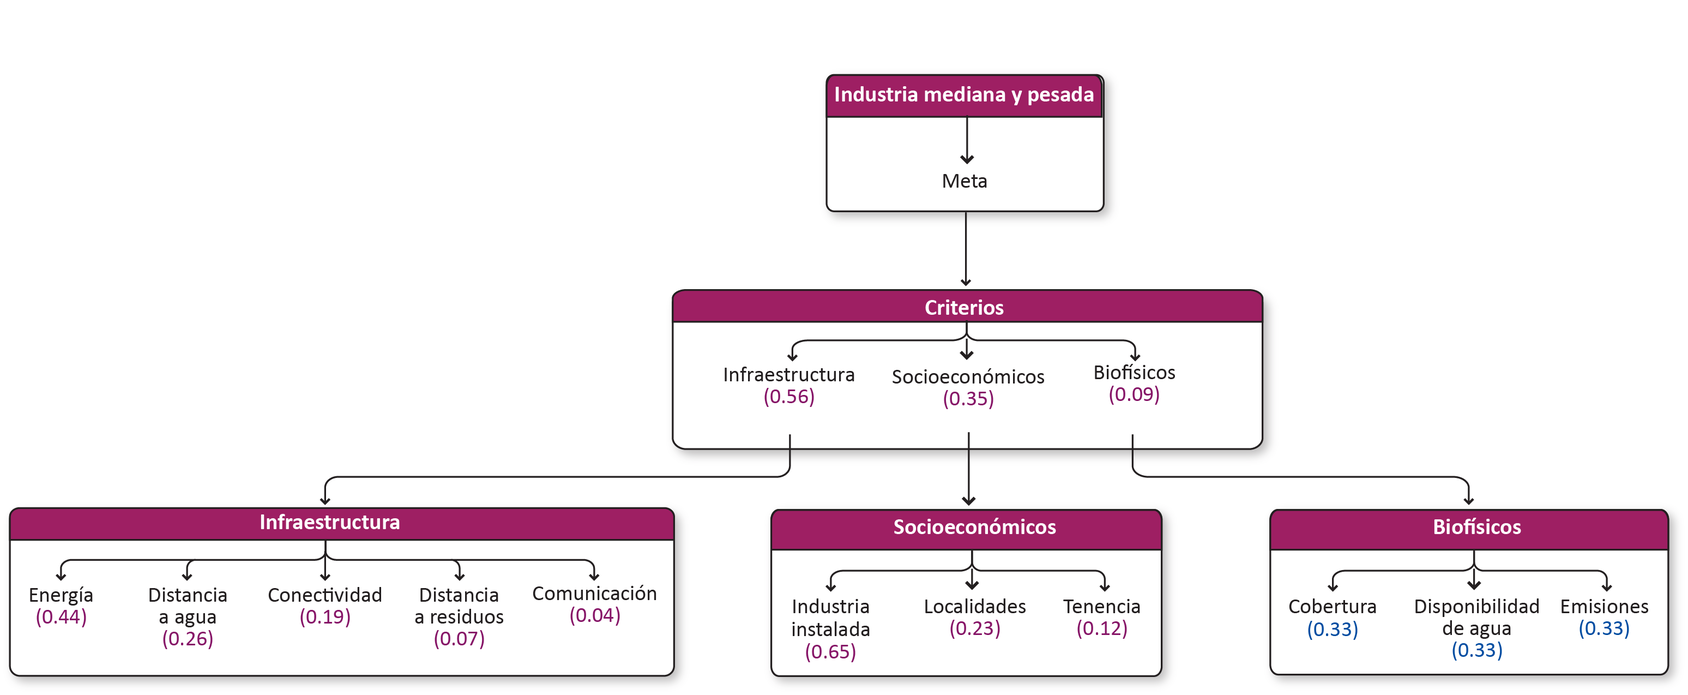
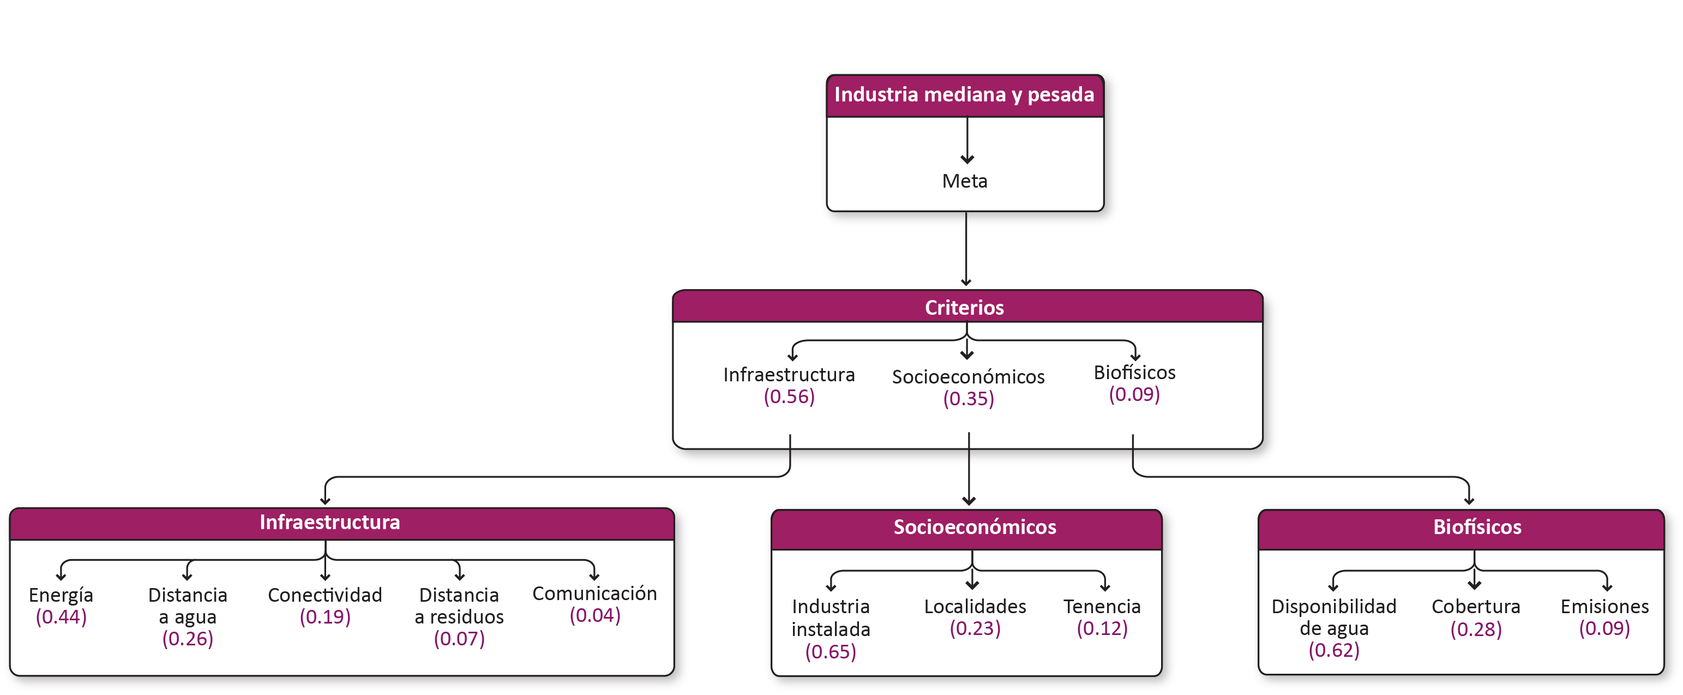
actualizaci├│n documentaci├│n1

diff --git a/searchindex.js b/searchindex.js
@@ -1,1 +1,1 @@
-Search.setIndex({docnames:["energia_pr","forestal_pr","ga_silvopastoril","ga_silvopastoril_pr","index","industrial_pr","urbano_pr"],envversion:{"sphinx.domains.c":1,"sphinx.domains.changeset":1,"sphinx.domains.cpp":1,"sphinx.domains.javascript":1,"sphinx.domains.math":2,"sphinx.domains.python":1,"sphinx.domains.rst":1,"sphinx.domains.std":1,"sphinx.ext.intersphinx":1,"sphinx.ext.todo":1,"sphinx.ext.viewcode":1,sphinx:55},filenames:["energia_pr.md","forestal_pr.md","ga_silvopastoril.rst","ga_silvopastoril_pr.md","index.rst","industrial_pr.md","urbano_pr.md"],objects:{},objnames:{},objtypes:{},terms:{"a\u00f1o":[1,2,3,5,6],"a\u00f1os":6,"cu\u00e1les":0,"desempe\u00f1":[2,3],"dise\u00f1":0,"final":5,"km\u00b2":[2,3],"le\u00f1":[0,1],"le\u00f1os":1,"public":0,"tama\u00f1":[1,6],Estado:0,Estos:4,Los:4,Muy:[2,3],Sin:[1,2,3,5],abastec:[4,5],acces:[1,2,3,5],accesibil:4,activ:[2,3,4,5],actuacion:0,actual:0,actualiz:4,acuicol:[2,3],acuifer:[2,3],adapt:[2,3],adimensional:[1,2,3,6],administr:6,afect:[2,3],agricultur:[2,3],agroindustri:5,agu:[4,6],ahp:[0,1,2,3,5,6],air:5,aliment:[2,3],almacen:[0,4,5],alta:[2,3],altern:1,ambient:[1,2,3],ambiental:[0,5],ambrosial:1,anex:5,animal:[2,3],anual:[2,3],aparent:[2,3],apoy:5,aprovech:[0,4,5,6],aptas:[2,3],arbor:[2,3],arbore:[2,3],arbust:[2,3],are:[1,4],arenosol:[2,3],asegur:0,asent:[5,6],asi:[1,4],atlas:5,atribut:4,aument:[2,3],aunqu:[2,3],autoriz:[1,5],avanc:4,baj:[2,3],bas:5,basurer:5,becerr:[2,3],biodivers:[2,3],biofis:4,biolog:0,bodeg:5,bosqu:[2,3],bovin:[2,3],cad:4,caducifoli:[2,3],calid:5,cambisol:[2,3],camin:[1,2,3,5],camp:[1,2,3,6],campech:[2,3],cancun:[2,3],cantid:[2,3],cap:[1,4,5,6],capac:[0,1,5],caracterist:[2,3],carbon:[0,1],carg:[2,3,5],carm:[2,3],carn:[2,3],carreter:[1,5],carretera_l:6,cart:[1,2,3],caset:5,categor:4,categori:[2,3],cenac:5,cens:[1,6],centr:[4,5,6],central:0,certidumbr:0,chernozem:[2,3],civil:0,clim:4,clima_tip:1,cobertur:[1,4,5,6],com:[0,1,3,4,5],combust:1,combustole:0,comercializ:5,comprim:0,comun:[0,4],conabi:[2,3],conafor:1,conagu:1,condicion:6,conect:4,conexion:5,confiabl:0,conform:4,conjunt:[1,2,3,5,6],consider:5,consolid:0,constru:[2,3],consum:[0,2,3,5],contamin:5,conten:6,continu:[1,2,3],contr:1,conversion:0,corredor:5,coster:[2,3],cre:0,crecimient:4,criteri:[0,4],cuatr:4,cubiert:1,cuent:5,cuerp:[2,3],cultiv:[2,3],dar:6,dat:[1,2,3,5,6],defin:0,definicion:[0,1,2,3,5,6],demograf:4,densid:4,denu:6,derechohabient:6,des_samof:1,desarroll:[0,6],descentraliz:6,descripci:[1,2,3],desech:0,desprov:[2,3],destin:1,determin:[0,2,3],diesel:0,direct:5,directori:6,disminu:5,dispersion:[5,6],dispon:4,disponibil:[4,5],disposicion:5,distaci:5,distanci:[1,2,3,4,6],distribu:[2,3,5],division:[2,3],dnu:5,drenaj:6,dun:[2,3],econom:[0,2,3,6],ecosistem:1,edafolog:[1,2,3],ejidal:[1,5],elabor:1,electr:[0,1,5,6],element:[1,5,6],emision:5,emple:4,empres:0,encuest:[2,3],energ:[1,4,6],energet:0,entid:[1,2,3,5,6],entub:6,equip:4,escal:[0,1,2,3,5,6],escarabaj:1,escuel:6,esfuerz:4,espaci:1,especi:[1,2,3],espin:[2,3],estadist:6,estatal:[1,2,3],exclusion:4,exot:1,expansion:6,experient:4,expresion:[2,3],extra:[2,3],extraccion:5,extrem:[2,3],factibil:5,factibl:4,factor:4,feder:[1,2,3,5,6],ferroviari:5,financ:1,fisic:[2,3],foment:6,forane:[2,3],forestal:4,form:0,forrajer:[2,3],freatic:[2,3,5],fuent:[1,2,3,4,5],fuer:6,funcion:[2,3],funcional:4,gan:[2,3],garc:[2,3],gasoduct:0,gener:[0,5,6],gleysol:[2,3],global:4,gramin:[2,3],granj:0,grup:4,gubernamental:6,habit:[1,6],hac:5,halofil:[2,3],hectare:6,herbace:[2,3],hidrofil:[2,3],histosol:[2,3],hong:1,human:5,identific:4,ifetel:5,impact:5,impid:1,inact:1,incendi:1,incident:1,inclu:[0,1,5],incluyent:0,incorpor:1,increment:5,indic:[1,6],indigen:4,induc:[2,3],industri:[0,4],industrial:[1,4],inegi:[1,2,3,5,6],inform:[1,2,3,4,5,6],infraestructur:4,inmigr:4,instal:[0,4],insum:[1,2,3,5,6],integr:[2,3],intercensal:[2,3],intraestatal:[2,3],invasor:1,invers:6,irradi:0,iter:[1,6],jurid:0,kilometr:[1,5],larg:4,leptosol:[2,3],liger:4,limpi:0,lin:1,liquen:1,lluvi:[2,3],local:[1,2,3,4,6],localidad250_:[1,6],localidad_250:5,logist:5,luvisol:[2,3],mader:4,man:[4,5],manej:5,maner:1,mangl:[2,3],mant:5,manten:[2,3],manufactur:5,map:[1,4],mas:4,materi:1,material:0,maxim:[2,3],mayor:[0,5],median:[2,3,4],medicion:5,mejor:[0,1],mer:[2,3,6],merc:4,met:4,metr:[2,3],mia:5,milimetr:[2,3],model:[0,1,4,5,6],moder:[2,3],movimient:5,muestr:4,municipal:[2,3,6],musg:1,n_freat_m:[2,3],nac:6,nacional:[1,2,3,5,6],nitosol:[2,3],nitrogen:[2,3],nivel:[2,3],nod:5,nuev:1,nul:[2,3],numer:[1,6],nutricion:[2,3],obra:[4,5],obten:5,obtien:4,ocup:[2,3,6],orden:0,p3ym_hli:6,pais:6,palm:[2,3],par:[0,1,2,3,5,6],parametr:[2,3],parcel:1,part:1,particip:4,past:[2,3],pastizal:[2,3],pastore:[2,3],paztizal:3,pder_ss:6,pedreg:[2,3],peligr:5,permanent:[2,3],pes:4,peten:[2,3],phaeozem:[2,3],piezometr:[2,3],plag:1,plant:[0,5],play:[2,3],pnaco:6,poblacion:[1,2,3,4],poblacional:[1,6],pobtot:[1,6],pocup:6,poety:[2,3,5],poligon:1,polit:[2,3],porcentaj:[2,3,6],porcicol:0,pose:0,posibil:[2,3],potabl:[5,6],potencial:1,poz:5,prec_m:[2,3],predomin:5,preferent:[1,4],prim:1,primari:[1,2,3],principal:[1,5,6],prioritari:1,prioriz:4,priv:[0,5],produc:0,produccion:[1,2,3,5],product:[0,1,2,3,4,5],productor:[0,1],profund:[2,3],promedi:[2,3],propied:5,proteccion:1,proyect:[0,5],pued:6,puert:5,punt:[1,2,3],quimic:[2,3],ran:1,realiz:4,recurs:[0,5],red:[1,2,3,5,6],regosol:[2,3],rellen:5,repart:0,represent:[1,4],residu:4,resin:1,result:[1,4,6],rieg:[2,3],riesg:4,rnc:1,roll:1,rural:1,saban:[2,3],salud:6,sanitari:5,sector:[0,2,3,4,6],secundari:[1,2,3],selv:[2,3],semipermanent:[2,3],sensibil:4,seri:[1,2,3,5,6],servici:[5,6],sesion:4,silvopastoril:4,sinoxylon:1,sistem:[2,3],siti:5,sivicoff:1,snigf:1,social:0,socioeconom:4,solonchak:[2,3],soport:[2,3],sosten:0,subcaducifoli:[2,3],subperennifoli:[2,3],subterrane:5,suel:[4,5],suficient:0,superfici:1,suscept:1,sustent:[2,3],tal:1,taller:[4,5],tas:4,tecnic:1,tecnolog:5,telecomun:5,temp_m:[2,3],temperatur:4,temporal:[2,3],tenenci:4,termin:5,terminal:0,terren:[1,5],terrestr:0,territori:[0,1],tierr:[1,5],tip:4,tipo_suel:[1,2,3],tizimin:[2,3],tod:6,topograf:[1,2,3,5,6],total:[2,3,6],transform:1,transmision:1,transport:0,traslad:6,tratamient:5,traves:6,tul:[2,3],tzucacab:[2,3],ubic:5,unidad:[1,2,3,5,6],unidentatum:1,urban:[2,3,4,5],usad:3,uso:[0,1,2,3],utiliz:0,valladol:[2,3],valor:[0,2,3],vectorial:[1,2,3,5,6],veget:[2,3,4],vegetal:[0,1,2,3],vehicul:0,vent:[1,2,3],verbal:[2,3],vered:1,vertient:6,vertisol:[2,3],vial:[1,6],vincul:6,viviend:[1,6],vivtot:6,vph_c_serv:6,vulner:5,yucatan:[0,1,5,6],zon:[0,1,2,3,5,6]},titles:["Energ\u00eda","Forestal","Silvopastoril","Silvopastoril","Sistema de conocimiento para la gesti\u00f3n del Ordenamiento Ecol\u00f3gico del Territorio (OET) del estado de Yucat\u00e1n","Industrial","Urbano"],titleterms:{abastec:1,accesibil:[2,3],activ:1,agu:[2,3,5],almacen:1,analisis:[2,4],aprovech:1,aptitud:[2,3,4],are:[2,3],atribut:[3,6],biofis:[1,2,3,5],biomas:0,cap:[2,3],categor:[2,3],centr:1,clim:1,cobertur:[2,3],comun:[1,5],comunitari:0,conect:[5,6],conoc:4,crecimient:6,criteri:[1,2,3,5,6],demograf:6,densid:6,disponibil:[2,3],distanci:5,ecolog:4,emple:6,energ:[0,5],eolic:0,equip:6,exclusion:[2,3],factor:1,forestal:1,fuent:[0,6],funcional:6,gas:0,gestion:4,global:[2,3],hidrocarbur:0,indigen:6,industri:5,industrial:[0,5],infraestructur:[1,5,6],inmigr:6,instal:5,liger:5,liqu:0,local:5,mader:1,man:[2,3],map:[2,3],median:5,merc:[1,2,3],met:[0,1,5,6],model:[2,3],natural:0,objet:4,obra:[2,3],oet:4,orden:4,par:4,pes:[2,3,5],poblacion:6,precipit:[2,3],residu:5,riesg:1,sectorial:4,sensibil:[2,3],silvopastoril:[2,3],sistem:4,socioeconom:[1,2,3,5],sol:0,subsector:0,suel:[1,2,3],tas:6,temperatur:[2,3],tenenci:[1,5],territori:4,tip:[1,2,3,5],urban:6,veget:1,yucatan:4}})
+Search.setIndex({docnames:["energia_pr","forestal_pr","ga_silvopastoril","ga_silvopastoril_pr","index","industrial_pr","urbano_pr"],envversion:{"sphinx.domains.c":1,"sphinx.domains.changeset":1,"sphinx.domains.cpp":1,"sphinx.domains.javascript":1,"sphinx.domains.math":2,"sphinx.domains.python":1,"sphinx.domains.rst":1,"sphinx.domains.std":1,"sphinx.ext.intersphinx":1,"sphinx.ext.todo":1,"sphinx.ext.viewcode":1,sphinx:55},filenames:["energia_pr.md","forestal_pr.md","ga_silvopastoril.rst","ga_silvopastoril_pr.md","index.rst","industrial_pr.md","urbano_pr.md"],objects:{},objnames:{},objtypes:{},terms:{"a\u00f1o":[1,2,3,5,6],"a\u00f1os":6,"cu\u00e1les":0,"desempe\u00f1":[2,3],"dise\u00f1":0,"final":5,"km\u00b2":[2,3],"le\u00f1":[0,1],"le\u00f1os":1,"public":0,"tama\u00f1":[1,6],Estado:0,Estos:4,Los:4,Muy:[2,3],Sin:[1,2,3,5],abastec:[4,5],acces:[1,2,3,5],accesibil:4,activ:[2,3,4,5],actuacion:0,actual:0,actualiz:4,acuicol:[2,3],acuifer:[2,3],adapt:[2,3],adimensional:[1,2,3,5,6],administr:6,afect:[2,3],agricultur:[2,3],agroindustri:5,agu:[4,6],ahp:[0,1,2,3,5,6],air:5,aliment:[2,3],almacen:[0,4,5],alta:[2,3],altern:1,ambient:[1,2,3],ambiental:[0,5],ambrosial:1,anex:5,animal:[2,3],anual:[2,3],aparent:[2,3],apoy:5,aprovech:[0,4,6],aptas:[2,3],arbor:[2,3],arbore:[2,3],arbust:[2,3],are:[1,4],arenosol:[2,3],asegur:0,asent:[5,6],asi:[1,4],atlas:[],atribut:4,aument:[2,3],aunqu:[2,3],autoriz:[1,5],avanc:4,baj:[2,3],bas:5,basurer:5,becerr:[2,3],biodivers:[2,3],biofis:4,biolog:0,biomas:4,bodeg:5,bosqu:[2,3],bovin:[2,3],cad:4,caducifoli:[2,3],calid:5,cambisol:[2,3],camin:[1,2,3,5],camp:[1,2,3,5,6],campech:[2,3],cancun:[2,3],cantid:[2,3],cap:[1,4,5,6],capac:[0,1,5],caracterist:[2,3],carbon:[0,1],carg:[2,3,5],carm:[2,3],carn:[2,3],carreter:[1,5],carretera_l:6,cart:[1,2,3],caset:5,categor:4,categori:[2,3],cenac:5,cens:[1,5,6],centr:[4,5,6],central:0,certidumbr:0,chernozem:[2,3],civil:0,clim:4,clima_tip:1,cobertur:[1,4,6],com:[0,1,3,4,5],combust:1,combustole:0,comercializ:5,comprim:0,comun:[0,4],comunitari:4,conabi:[2,3],conafor:1,conagu:[1,5],condicion:6,conect:4,conexion:5,confiabl:0,conform:4,conjunt:[1,2,3,5,6],consider:5,consolid:0,constru:[2,3],consum:[0,2,3,5],contamin:5,conten:6,continu:[1,2,3],contr:1,conversion:0,corredor:5,coster:[2,3],cre:0,crecimient:4,criteri:[0,4],cuatr:4,cubiert:1,cuent:[],cuerp:[2,3],cultiv:[2,3],dar:6,dat:[1,2,3,5,6],defin:0,definicion:[0,1,2,3,5,6],demograf:4,densid:4,denu:[5,6],derechohabient:6,des_samof:1,desarroll:[0,6],descentraliz:6,descripci:[1,2,3],desech:0,desprov:[2,3],destin:1,determin:[0,2,3],diesel:0,direct:[],directori:[5,6],disminu:5,dispersion:[4,6],dispon:4,disponibil:4,disposicion:5,distaci:5,distanci:[1,2,3,4,6],distribu:[2,3,5],division:[2,3],dnu:5,drenaj:6,dun:[2,3],econom:[0,2,3,5,6],ecosistem:1,edafolog:[1,2,3],ejidal:[1,5],elabor:1,electr:[0,1,5,6],element:[1,5,6],emision:4,emple:4,empres:0,encuest:[2,3],energ:[1,4,6],energet:0,entid:[1,2,3,5,6],entub:6,eolic:4,equip:4,escal:[0,1,2,3,5,6],escarabaj:1,escuel:6,esfuerz:4,espaci:1,especi:[1,2,3],espin:[2,3],estadist:[5,6],estatal:[1,2,3],exclusion:4,exot:1,expansion:6,experient:4,expresion:[2,3],extra:[2,3],extraccion:[],extrem:[2,3],factibil:[],factibl:4,factor:4,feder:[1,2,3,5,6],ferroviari:5,financ:1,fisic:[2,3],foment:6,forane:[2,3],forestal:4,form:0,forrajer:[2,3],freatic:[2,3,5],fuent:[1,2,3,4,5],fuer:6,funcion:[2,3],funcional:4,gan:[2,3],garc:[2,3],gas:4,gasoduct:0,gener:[0,5,6],gleysol:[2,3],global:4,gramin:[2,3],granj:0,grup:4,gubernamental:6,habit:[1,5,6],hac:5,halofil:[2,3],hectare:6,herbace:[2,3],hidrocarbur:4,hidrofil:[2,3],histosol:[2,3],hong:1,human:5,identific:4,ifetel:5,impact:5,impid:1,inact:1,incendi:1,incident:1,inclu:[0,1,5],incluyent:0,incorpor:1,increment:5,indic:[1,6],indigen:4,induc:[2,3],industri:[0,4],industrial:[1,4],inegi:[1,2,3,5,6],inform:[1,2,3,4,5,6],infraestructur:4,inmigr:4,instal:[0,4],insum:[1,2,3,5,6],integr:[2,3],intercensal:[2,3],intraestatal:[2,3],invasor:1,inventari:5,invers:6,irradi:0,iter:[1,5,6],jurid:0,kilometr:[1,5],larg:4,leptosol:[2,3],liger:4,limpi:0,lin:[1,5],liqu:4,liquen:1,lluvi:[2,3],local:[1,2,3,4,6],localidad250_:[1,6],localidad_250:5,logist:5,luvisol:[2,3],mader:4,man:[4,5],manej:5,maner:1,mangl:[2,3],mant:5,manten:[2,3],manufactur:5,map:[1,4],mas:4,materi:1,material:0,maxim:[2,3],mayor:[0,5],median:[2,3,4],medicion:5,mejor:[0,1],mer:[2,3,6],merc:4,met:4,metr:[2,3],mia:5,milimetr:[2,3],model:[0,1,4,5,6],moder:[2,3],movimient:5,muestr:4,municipal:[2,3,5,6],musg:1,n_freat_m:[2,3],nac:6,nacional:[1,2,3,5,6],natural:4,nitosol:[2,3],nitrogen:[2,3],nivel:[2,3],nod:5,nuev:1,nul:[2,3],numer:[1,5,6],nutricion:[2,3],obra:[4,5],obten:5,obtien:4,ocup:[2,3,6],oper:5,orden:0,p3ym_hli:6,pais:6,palm:[2,3],par:[0,1,2,3,6],parametr:[2,3],parcel:[1,5],part:1,particip:4,past:[2,3],pastizal:[2,3],pastore:[2,3],paztizal:3,pder_ss:6,pedreg:[2,3],peligr:5,permanent:[2,3],pes:4,peten:[2,3],phaeozem:[2,3],piezometr:[2,3],plag:1,plant:[0,5],play:[2,3],pnaco:6,poblacion:[1,2,3,4,5],poblacional:[1,6],pobtot:[1,5,6],pocup:6,poety:[2,3,5],poligon:1,polit:[2,3],porcentaj:[2,3,6],porcicol:0,pose:0,posibil:[2,3],potabl:[5,6],potencial:1,poz:[],prec_m:[2,3],predomin:5,preferent:[1,4],prim:1,primari:[1,2,3],principal:[1,5,6],prioritari:1,prioriz:4,priv:[0,5],produc:0,produccion:[1,2,3,5],product:[0,1,2,3,4,5],productor:[0,1],profund:[2,3],promedi:[2,3],propied:5,proteccion:1,proyect:[0,5],pued:6,puert:5,punt:[1,2,3],quimic:[2,3],ran:1,realiz:4,recurs:[0,5],red:[1,2,3,5,6],registr:5,regosol:[2,3],rellen:5,repart:0,represent:[1,4],residu:4,residual:5,resin:1,result:[1,4,5,6],rieg:[2,3],riesg:4,rnc:1,roll:1,rural:1,saban:[2,3],salud:6,sanitari:5,sector:[0,2,3,4,6],secundari:[1,2,3],selv:[2,3],semarnat:5,semipermanent:[2,3],sensibil:4,seri:[1,2,3,5,6],servici:[5,6],sesion:4,silvopastoril:4,sinoxylon:1,sistem:[2,3],siti:5,sivicoff:1,snigf:1,social:0,socioeconom:4,sol:4,solonchak:[2,3],soport:[2,3],sosten:0,subcaducifoli:[2,3],subperennifoli:[2,3],subsector:4,subterrane:5,suel:[4,5],suficient:0,superfici:1,suscept:1,sustent:[2,3],tal:1,taller:[4,5],tas:4,tecnic:1,tecnolog:5,telecomun:5,temp_m:[2,3],temperatur:4,temporal:[2,3],tenenci:4,termin:5,terminal:0,terren:[1,5],terrestr:0,territori:[0,1],tierr:[1,5],tip:4,tipo_suel:[1,2,3],tizimin:[2,3],tod:6,topograf:[1,2,3,5,6],total:[2,3,5,6],transform:1,transmision:[1,5],transport:0,traslad:6,tratamient:5,traves:6,tul:[2,3],tzucacab:[2,3],ubic:5,unidad:[1,2,3,5,6],unidentatum:1,urban:[2,3,4,5],usad:3,uso:[0,1,2,3,5],utiliz:0,valladol:[2,3],valor:[0,2,3],vectorial:[1,2,3,5,6],veget:[2,3,4],vegetal:[0,1,2,3],vehicul:0,vent:[1,2,3],verbal:[2,3],vered:1,vertient:6,vertisol:[2,3],vial:[1,6],vincul:6,viviend:[1,5,6],vivtot:6,vph_aguadv:5,vph_c_serv:6,vulner:5,yucatan:[0,1,5,6],zon:[0,1,2,3,5,6]},titles:["Energ\u00eda","Forestal","Silvopastoril","Silvopastoril","Sistema de conocimiento para la gesti\u00f3n del Ordenamiento Ecol\u00f3gico del Territorio (OET) del estado de Yucat\u00e1n","Industrial","Urbano"],titleterms:{abastec:1,accesibil:[2,3],activ:1,agu:[2,3,5],almacen:1,analisis:[2,4],aprovech:1,aptitud:[2,3,4],are:[2,3],atribut:[3,6],biofis:[1,2,3,5],biomas:0,cap:[2,3],categor:[2,3],centr:1,clim:1,cobertur:[2,3,5],comun:[1,5],comunitari:0,conect:[5,6],conoc:4,crecimient:6,criteri:[1,2,3,5,6],demograf:6,densid:6,dispersion:5,disponibil:[2,3,5],distanci:5,ecolog:4,emision:5,emple:6,energ:[0,5],eolic:0,equip:6,exclusion:[2,3],factor:1,forestal:1,fuent:[0,6],funcional:6,gas:0,gestion:4,global:[2,3],hidrocarbur:0,indigen:6,industri:5,industrial:[0,5],infraestructur:[1,5,6],inmigr:6,instal:5,liger:5,liqu:0,local:5,mader:1,man:[2,3],map:[2,3],median:5,merc:[1,2,3],met:[0,1,5,6],model:[2,3],natural:0,objet:4,obra:[2,3],oet:4,orden:4,par:4,pes:[2,3,5],poblacion:6,precipit:[2,3],residu:5,riesg:1,sectorial:4,sensibil:[2,3],silvopastoril:[2,3],sistem:4,socioeconom:[1,2,3,5],sol:0,subsector:0,suel:[1,2,3],tas:6,temperatur:[2,3],tenenci:[1,5],territori:4,tip:[1,2,3,5],urban:6,veget:1,yucatan:4}})

diff --git a/industrial_pr.html b/industrial_pr.html
@@ -83,6 +83,7 @@
             
               <p class="caption"><span class="caption-text">Sectores:</span></p>
 <ul class="current">
+<li class="toctree-l1"><a class="reference internal" href="energia_pr.html">Energía</a></li>
 <li class="toctree-l1"><a class="reference internal" href="forestal_pr.html">Forestal</a></li>
 <li class="toctree-l1 current"><a class="current reference internal" href="#">Industrial</a><ul>
 <li class="toctree-l2"><a class="reference internal" href="#meta">Meta</a></li>
@@ -106,7 +107,12 @@
 <li class="toctree-l4"><a class="reference internal" href="#tenencia">Tenencia</a></li>
 </ul>
 </li>
-<li class="toctree-l3"><a class="reference internal" href="#biofisicos">Biofísicos</a></li>
+<li class="toctree-l3"><a class="reference internal" href="#biofisicos">Biofísicos</a><ul>
+<li class="toctree-l4"><a class="reference internal" href="#disponibilidad-de-agua">Disponibilidad de agua</a></li>
+<li class="toctree-l4"><a class="reference internal" href="#cobertura">Cobertura</a></li>
+<li class="toctree-l4"><a class="reference internal" href="#dispersion-de-emisiones">Dispersión de emisiones</a></li>
+</ul>
+</li>
 </ul>
 </li>
 </ul>
@@ -234,11 +240,70 @@ FOMIX\fmx_estudio_tecnico\diagnostico\talleres\sphinx\docs --><div class="sectio
 <h4>Energía<a class="headerlink" href="#energia" title="Enlazar permanentemente con este título">¶</a></h4>
 <p>Energía eléctrica: acceso y calidad/capacidad de infraestructura eléctrica (CENACE capacidad de carga en nodos).</p>
 <p><strong>Insumos</strong></p>
-</div>
+<table border="1" class="docutils">
+<thead>
+<tr>
+<th>Capa</th>
+<th>Distancia líneas de transmisión de energía   eléctrica</th>
+</tr>
+</thead>
+<tbody>
+<tr>
+<td>Fuente</td>
+<td>Líneas de transmisión INEGI</td>
+</tr>
+<tr>
+<td>Año</td>
+<td>2012</td>
+</tr>
+<tr>
+<td>Escala</td>
+<td>1:50,000</td>
+</tr>
+<tr>
+<td>Unidades</td>
+<td>Kilómetros</td>
+</tr>
+</tbody>
+</table></div>
 <div class="section" id="distancia-a-agua">
 <h4>Distancia a agua<a class="headerlink" href="#distancia-a-agua" title="Enlazar permanentemente con este título">¶</a></h4>
 <p>Distancia a red de agua potable, plantas de tratamiento, cobertura.</p>
 <p><strong>Insumos</strong></p>
+<table border="1" class="docutils">
+<thead>
+<tr>
+<th>Capa</th>
+<th>Distancia a agua</th>
+</tr>
+</thead>
+<tbody>
+<tr>
+<td>Fuente</td>
+<td>Censo de Población y Vivienda 2010. Principales resultados por localidad   (ITER) INEGI</td>
+</tr>
+<tr>
+<td>Año</td>
+<td>2010</td>
+</tr>
+<tr>
+<td>Campo</td>
+<td>VPH_AGUADV</td>
+</tr>
+<tr>
+<td>Escala</td>
+<td>Localidad</td>
+</tr>
+<tr>
+<td>Unidades</td>
+<td>Kilómetros</td>
+</tr>
+</tbody>
+</table><p>Capa	Distancia a plantas de tratamiento de agua residual
+Fuente	Datos vectoriales de las plantas municipales de tratamiento de aguas residuales en operación registradas en el inventario nacional CONAGUA
+Año	2017
+Escala	 1:250,000
+Unidades	Kilómetros</p>
 </div>
 <div class="section" id="conectividad">
 <h4>Conectividad<a class="headerlink" href="#conectividad" title="Enlazar permanentemente con este título">¶</a></h4>
@@ -324,7 +389,32 @@ FOMIX\fmx_estudio_tecnico\diagnostico\talleres\sphinx\docs --><div class="sectio
 <h4>Distancia a residuos<a class="headerlink" href="#distancia-a-residuos" title="Enlazar permanentemente con este título">¶</a></h4>
 <p>Manejo de residuos: distancia a sitios de disposición final (basureros, rellenos sanitarios, disposición de residuos peligrosos).</p>
 <p><strong>Insumos</strong></p>
-</div>
+<table border="1" class="docutils">
+<thead>
+<tr>
+<th>Capa</th>
+<th>Distancia a residuos</th>
+</tr>
+</thead>
+<tbody>
+<tr>
+<td>Fuente</td>
+<td>Sitios de disposición final de residuos INEGI-SEMARNAT</td>
+</tr>
+<tr>
+<td>Año</td>
+<td>2017</td>
+</tr>
+<tr>
+<td>Escala</td>
+<td>Sin dato</td>
+</tr>
+<tr>
+<td>Unidades</td>
+<td>Kilómetros</td>
+</tr>
+</tbody>
+</table></div>
 <div class="section" id="comunicacion">
 <h4>Comunicación<a class="headerlink" href="#comunicacion" title="Enlazar permanentemente con este título">¶</a></h4>
 <p>Telecomunicaciones: cobertura de red (IFETEL).</p>
@@ -347,7 +437,7 @@ FOMIX\fmx_estudio_tecnico\diagnostico\talleres\sphinx\docs --><div class="sectio
 </tr>
 <tr>
 <td>Localidades</td>
-<td> </td>
+<td>Población total en localidades.</td>
 </tr>
 <tr>
 <td>Tenencia</td>
@@ -358,16 +448,96 @@ FOMIX\fmx_estudio_tecnico\diagnostico\talleres\sphinx\docs --><div class="sectio
 <h4>Industria instalada<a class="headerlink" href="#industria-instalada" title="Enlazar permanentemente con este título">¶</a></h4>
 <p>Centros urbanos con predominancia de actividad industrial, corredores industriales, servicios anexos – talleres, bodegas (fuente: INEGI - DNUE) y proyectos industriales autorizados (fuente: MIA).</p>
 <p><strong>Insumos</strong></p>
-</div>
+<table border="1" class="docutils">
+<thead>
+<tr>
+<th>Capa</th>
+<th>Industria mediana y pesada</th>
+</tr>
+</thead>
+<tbody>
+<tr>
+<td>Fuente</td>
+<td>Directorio Estadístico Nacional de Unidades Económicas (DENUE) INEGI</td>
+</tr>
+<tr>
+<td>Año</td>
+<td>2020</td>
+</tr>
+<tr>
+<td>Escala</td>
+<td>Localidad</td>
+</tr>
+<tr>
+<td>Unidades</td>
+<td>Número de unidades económicas</td>
+</tr>
+</tbody>
+</table></div>
 <div class="section" id="localidades">
 <h4>Localidades<a class="headerlink" href="#localidades" title="Enlazar permanentemente con este título">¶</a></h4>
+<p>Población total en localidades.</p>
 <p><strong>Insumos</strong></p>
-</div>
+<table border="1" class="docutils">
+<thead>
+<tr>
+<th>Capa</th>
+<th>Tipo de localidades</th>
+</tr>
+</thead>
+<tbody>
+<tr>
+<td>Fuente</td>
+<td>Censo de Población y Vivienda 2010. Principales resultados por localidad   (ITER) INEGI</td>
+</tr>
+<tr>
+<td>Año</td>
+<td>2010</td>
+</tr>
+<tr>
+<td>Campo</td>
+<td>POBTOT</td>
+</tr>
+<tr>
+<td>Escala</td>
+<td>Localidad</td>
+</tr>
+<tr>
+<td>Unidades</td>
+<td>Número de habitantes</td>
+</tr>
+</tbody>
+</table></div>
 <div class="section" id="tenencia">
 <h4>Tenencia<a class="headerlink" href="#tenencia" title="Enlazar permanentemente con este título">¶</a></h4>
 <p>Tenencia de la tierra: terrenos ejidales o propiedad privada.</p>
 <p><strong>Insumos</strong></p>
-</div>
+<table border="1" class="docutils">
+<thead>
+<tr>
+<th>Capa</th>
+<th>Tenencia de la tierra</th>
+</tr>
+</thead>
+<tbody>
+<tr>
+<td>Fuente</td>
+<td>[1] Zonas de Tierras Parceladas y [2] Tierra de uso común</td>
+</tr>
+<tr>
+<td>Año</td>
+<td>2020</td>
+</tr>
+<tr>
+<td>Escala</td>
+<td>Sin dato</td>
+</tr>
+<tr>
+<td>Unidades</td>
+<td>Adimensional</td>
+</tr>
+</tbody>
+</table></div>
 </div>
 <div class="section" id="biofisicos">
 <h3>Biofísicos<a class="headerlink" href="#biofisicos" title="Enlazar permanentemente con este título">¶</a></h3>
@@ -380,22 +550,37 @@ FOMIX\fmx_estudio_tecnico\diagnostico\talleres\sphinx\docs --><div class="sectio
 </thead>
 <tbody>
 <tr>
-<td>Cobertura</td>
-<td>Zonas urbanas, asentamientos humanos</td>
-</tr>
-<tr>
 <td>Disponibilidad de agua</td>
-<td>Disponibilidad de agua: factibilidad para el aprovechamiento directo- pozos: capacidad de extracción (distancia a manto freático) y calidad</td>
+<td>Distancia a manto freático.</td>
 </tr>
 <tr>
-<td>Emisiones</td>
-<td>Dispersión de emisiones: se cuenta con información de zonas con mayor dispersión de contaminantes al aire, con base en datos obtenidos en casetas de medición y de vulnerabilidad por movimiento de contaminantes en agua subterránea (fuente: Atlas de peligros de Yucatán)</td>
+<td>Cobertura</td>
+<td>Zonas urbanas, asentamientos humanos.</td>
+</tr>
+<tr>
+<td>Dispersión de emisiones</td>
+<td>Zonas con mayor dispersión de contaminantes al aire, con base en datos obtenidos en casetas de medición y de vulnerabilidad por movimiento de contaminantes en agua subterránea.</td>
 </tr>
 </tbody>
-</table><!-- .. csv-table::
+</table><div class="section" id="disponibilidad-de-agua">
+<h4>Disponibilidad de agua<a class="headerlink" href="#disponibilidad-de-agua" title="Enlazar permanentemente con este título">¶</a></h4>
+<p>Distancia a manto freático.</p>
+<p><strong>Insumos</strong></p>
+</div>
+<div class="section" id="cobertura">
+<h4>Cobertura<a class="headerlink" href="#cobertura" title="Enlazar permanentemente con este título">¶</a></h4>
+<p>Zonas urbanas, asentamientos humanos.</p>
+<p><strong>Insumos</strong></p>
+</div>
+<div class="section" id="dispersion-de-emisiones">
+<h4>Dispersión de emisiones<a class="headerlink" href="#dispersion-de-emisiones" title="Enlazar permanentemente con este título">¶</a></h4>
+<p>Zonas con mayor dispersión de contaminantes al aire, con base en datos obtenidos en casetas de medición y de vulnerabilidad por movimiento de contaminantes en agua subterránea.</p>
+<p><strong>Insumos</strong></p>
+<!-- .. csv-table::
    :file: recursos/tabla_c_biofisicos_silvopastoril.csv
    :header-rows: 1
    :align: center --></div>
+</div>
 </div>
 </div>
 

diff --git a/index.html b/index.html
@@ -36,7 +36,7 @@
   <link rel="stylesheet" href="_static/pygments.css" type="text/css" />
     <link rel="index" title="Índice" href="genindex.html" />
     <link rel="search" title="Búsqueda" href="search.html" />
-    <link rel="next" title="Forestal" href="forestal_pr.html" /> 
+    <link rel="next" title="Energía" href="energia_pr.html" /> 
 </head>
 
 <body class="wy-body-for-nav">
@@ -82,6 +82,7 @@
             
               <p class="caption"><span class="caption-text">Sectores:</span></p>
 <ul>
+<li class="toctree-l1"><a class="reference internal" href="energia_pr.html">Energía</a></li>
 <li class="toctree-l1"><a class="reference internal" href="forestal_pr.html">Forestal</a></li>
 <li class="toctree-l1"><a class="reference internal" href="industrial_pr.html">Industrial</a></li>
 <li class="toctree-l1"><a class="reference internal" href="ga_silvopastoril_pr.html">Silvopastoril</a></li>
@@ -163,6 +164,27 @@ Los productos de los talleres se actualizan conforme se obtienen resultados en l
 <div class="toctree-wrapper compound">
 <p class="caption"><span class="caption-text">Sectores:</span></p>
 <ul>
+<li class="toctree-l1"><a class="reference internal" href="energia_pr.html">Energía</a><ul>
+<li class="toctree-l2"><a class="reference internal" href="energia_pr.html#meta">Meta</a></li>
+<li class="toctree-l2"><a class="reference internal" href="energia_pr.html#subsectores">Subsectores</a><ul>
+<li class="toctree-l3"><a class="reference internal" href="energia_pr.html#energia-industrial">Energía industrial</a></li>
+<li class="toctree-l3"><a class="reference internal" href="energia_pr.html#energia-comunitaria">Energía comunitaria</a></li>
+</ul>
+</li>
+<li class="toctree-l2"><a class="reference internal" href="energia_pr.html#fuentes">Fuentes</a><ul>
+<li class="toctree-l3"><a class="reference internal" href="energia_pr.html#id1">Energía industrial</a><ul>
+<li class="toctree-l4"><a class="reference internal" href="energia_pr.html#hidrocarburos-liquidos">Hidrocarburos líquidos</a></li>
+<li class="toctree-l4"><a class="reference internal" href="energia_pr.html#gas-natural">Gas natural</a></li>
+<li class="toctree-l4"><a class="reference internal" href="energia_pr.html#solar">Solar</a></li>
+<li class="toctree-l4"><a class="reference internal" href="energia_pr.html#eolica">Eolica</a></li>
+<li class="toctree-l4"><a class="reference internal" href="energia_pr.html#biomasa-industrial">Biomasa industrial</a></li>
+</ul>
+</li>
+<li class="toctree-l3"><a class="reference internal" href="energia_pr.html#id2">Energía comunitaria</a></li>
+</ul>
+</li>
+</ul>
+</li>
 <li class="toctree-l1"><a class="reference internal" href="forestal_pr.html">Forestal</a><ul>
 <li class="toctree-l2"><a class="reference internal" href="forestal_pr.html#meta">Meta</a></li>
 <li class="toctree-l2"><a class="reference internal" href="forestal_pr.html#tipos-de-actividad-forestal">Tipos de actividad forestal</a><ul>
@@ -238,7 +260,12 @@ Los productos de los talleres se actualizan conforme se obtienen resultados en l
 <li class="toctree-l4"><a class="reference internal" href="industrial_pr.html#tenencia">Tenencia</a></li>
 </ul>
 </li>
-<li class="toctree-l3"><a class="reference internal" href="industrial_pr.html#biofisicos">Biofísicos</a></li>
+<li class="toctree-l3"><a class="reference internal" href="industrial_pr.html#biofisicos">Biofísicos</a><ul>
+<li class="toctree-l4"><a class="reference internal" href="industrial_pr.html#disponibilidad-de-agua">Disponibilidad de agua</a></li>
+<li class="toctree-l4"><a class="reference internal" href="industrial_pr.html#cobertura">Cobertura</a></li>
+<li class="toctree-l4"><a class="reference internal" href="industrial_pr.html#dispersion-de-emisiones">Dispersión de emisiones</a></li>
+</ul>
+</li>
 </ul>
 </li>
 </ul>
@@ -303,7 +330,7 @@ Los productos de los talleres se actualizan conforme se obtienen resultados en l
   
     <div class="rst-footer-buttons" role="navigation" aria-label="footer navigation">
       
-        <a href="forestal_pr.html" class="btn btn-neutral float-right" title="Forestal" accesskey="n" rel="next">Next <span class="fa fa-arrow-circle-right"></span></a>
+        <a href="energia_pr.html" class="btn btn-neutral float-right" title="Energía" accesskey="n" rel="next">Next <span class="fa fa-arrow-circle-right"></span></a>
       
       
     </div>

diff --git a/forestal_pr.html b/forestal_pr.html
@@ -37,7 +37,7 @@
     <link rel="index" title="Índice" href="genindex.html" />
     <link rel="search" title="Búsqueda" href="search.html" />
     <link rel="next" title="Industrial" href="industrial_pr.html" />
-    <link rel="prev" title="Sistema de conocimiento para la gestión del Ordenamiento Ecológico del Territorio (OET) del estado de Yucatán" href="index.html" /> 
+    <link rel="prev" title="Energía" href="energia_pr.html" /> 
 </head>
 
 <body class="wy-body-for-nav">
@@ -83,6 +83,7 @@
             
               <p class="caption"><span class="caption-text">Sectores:</span></p>
 <ul class="current">
+<li class="toctree-l1"><a class="reference internal" href="energia_pr.html">Energía</a></li>
 <li class="toctree-l1 current"><a class="current reference internal" href="#">Forestal</a><ul>
 <li class="toctree-l2"><a class="reference internal" href="#meta">Meta</a></li>
 <li class="toctree-l2"><a class="reference internal" href="#tipos-de-actividad-forestal">Tipos de actividad forestal</a><ul>
@@ -776,7 +777,7 @@ Unidades	Adimensional</p>
         <a href="industrial_pr.html" class="btn btn-neutral float-right" title="Industrial" accesskey="n" rel="next">Next <span class="fa fa-arrow-circle-right"></span></a>
       
       
-        <a href="index.html" class="btn btn-neutral float-left" title="Sistema de conocimiento para la gestión del Ordenamiento Ecológico del Territorio (OET) del estado de Yucatán" accesskey="p" rel="prev"><span class="fa fa-arrow-circle-left"></span> Previous</a>
+        <a href="energia_pr.html" class="btn btn-neutral float-left" title="Energía" accesskey="p" rel="prev"><span class="fa fa-arrow-circle-left"></span> Previous</a>
       
     </div>
   

diff --git a/genindex.html b/genindex.html
@@ -82,6 +82,7 @@
             
               <p class="caption"><span class="caption-text">Sectores:</span></p>
 <ul>
+<li class="toctree-l1"><a class="reference internal" href="energia_pr.html">Energía</a></li>
 <li class="toctree-l1"><a class="reference internal" href="forestal_pr.html">Forestal</a></li>
 <li class="toctree-l1"><a class="reference internal" href="industrial_pr.html">Industrial</a></li>
 <li class="toctree-l1"><a class="reference internal" href="ga_silvopastoril_pr.html">Silvopastoril</a></li>

diff --git a/search.html b/search.html
@@ -82,6 +82,7 @@
             
               <p class="caption"><span class="caption-text">Sectores:</span></p>
 <ul>
+<li class="toctree-l1"><a class="reference internal" href="energia_pr.html">Energía</a></li>
 <li class="toctree-l1"><a class="reference internal" href="forestal_pr.html">Forestal</a></li>
 <li class="toctree-l1"><a class="reference internal" href="industrial_pr.html">Industrial</a></li>
 <li class="toctree-l1"><a class="reference internal" href="ga_silvopastoril_pr.html">Silvopastoril</a></li>
